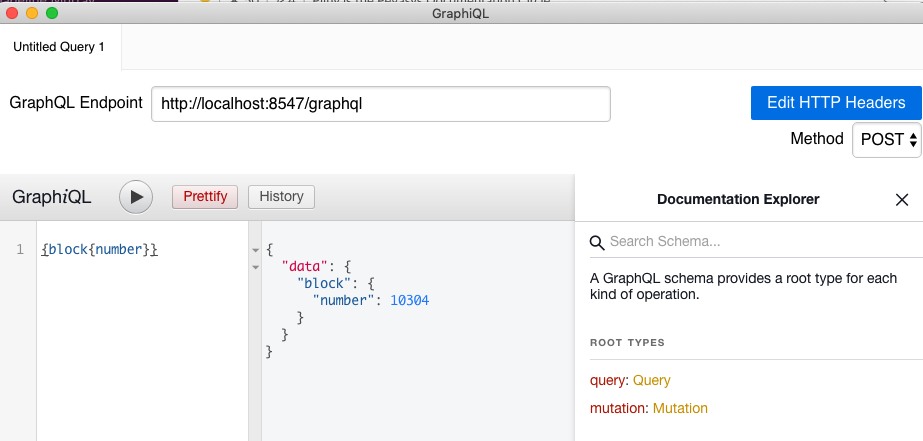
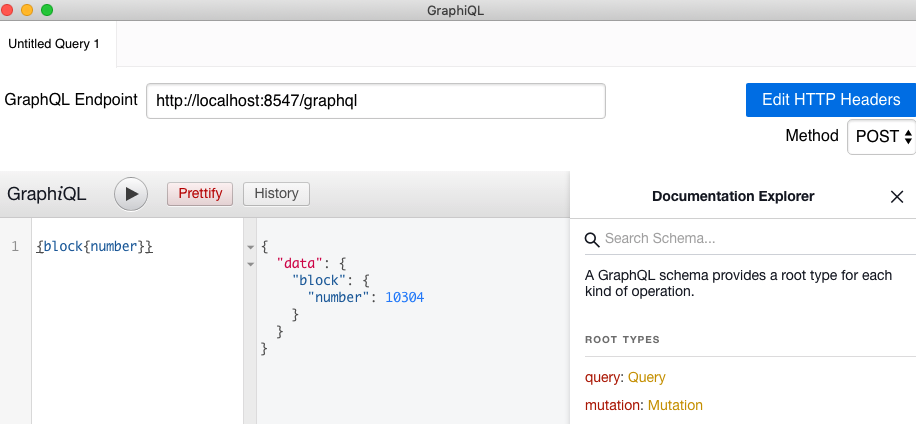
Ready for review

diff --git a/docs/Reference/Pantheon-API-Methods.md b/docs/Reference/Pantheon-API-Methods.md
@@ -444,6 +444,10 @@ None
 	
 ## Eth Methods
 
+!!! note
+    Methods with an equivalent [GraphQL](../Pantheon-API/GraphQL.md) query include a GraphQL request and result in the method example.
+    The parameter and result descriptions apply to the JSON-RPC requests. The GraphQL specification is defined in the [schema](https://github.com/PegaSysEng/pantheon/blob/master/ethereum/graphqlrpc/src/main/resources/schema.graphqls).  
+
 ### eth_syncing
 
 Returns an object with data about the synchronization status, or `false` if not synchronizing.
@@ -1622,9 +1626,6 @@ Returns transaction information for the specified block number and transaction i
 
 Object - [Transaction object](Pantheon-API-Objects.md#transaction-object), or `null` when no transaction is found.
 
-!!!note
-    Your node must be synchronized to at least the block containing the transaction for the request to return it.
-
 !!! example
     This request returns the third transaction in the 82990 block on the Ropsten testnet. You can also view this [block](https://ropsten.etherscan.io/txs?block=82990) and [transaction](https://ropsten.etherscan.io/tx/0xfc766a71c406950d4a4955a340a092626c35083c64c7be907060368a5e6811d6) on Etherscan.
 
@@ -2028,8 +2029,6 @@ Returns an array of [logs](../Using-Pantheon/Events-and-Logs.md) matching a spec
 `array` - [Log objects](Pantheon-API-Objects.md#log-object)
 
 !!! example
-    The following request returns all logs for the contract at address `0x2e1f232a9439c3d459fceca0beef13acc8259dd8`. 
-
     ```bash tab="curl HTTP request"
     curl -X POST --data '{"jsonrpc":"2.0","method":"eth_getLogs","params":[{"fromBlock":"earliest", "toBlock":"latest", "address": "0x2e1f232a9439c3d459fceca0beef13acc8259dd8", "topics":[]}], "id":1}' http://127.0.0.1:8545
     ```

diff --git a/docs/Pantheon-API/GraphQL.md b/docs/Pantheon-API/GraphQL.md
@@ -3,22 +3,25 @@ description: How to access the Pantheon API using GraphQL-RPC
 
 # GraphQL over HTTP
 
-To enable GraphQL-RPC over HTTP, use the [`--graphql-http-enabled`](../Reference/Pantheon-CLI-Syntax.md#graphql-http-enabled) 
-option.
+GraphQL can reduce the overhead needed for common queries. For example, instead of querying each receipt in a
+block, GraphQL can obtain the same result with a single query for the entire block. 
 
 ## GraphQL Requests with Curl 
 
-```bash
-curl -X POST -H "Content-Type: application/json" --data '{ "query": "{ protocolVersion }" }' http://localhost:8547/graphql
-```
+[Pantheon JSON-RPC API methods](../Reference/Pantheon-API-Methods.md) with an equivalent [GraphQL](../Pantheon-API/GraphQL.md) 
+query include a GraphQL request and result in the method example. 
 
+!!! example
+    ```bash
+    curl -X POST -H "Content-Type: application/json" --data '{ "query": "{syncing{startingBlock currentBlock highestBlock}}"}' http://localhost:8547/graphql
+    ```
 
 ## GraphQL Requests with GraphiQL App
 
-The [GraphiQL app](https://github.com/skevy/graphiql-app) provides a tabbed interface for editing and testing GraphQL 
+The third-party tool [GraphiQL](https://github.com/skevy/graphiql-app) provides a tabbed interface for editing and testing GraphQL 
 queries and mutations. GraphiQL also provides access the Pantheon GraphQL schema from within the app. 
 
 ![GraphiQL](../images/GraphiQL.png) 
 
 
-Examples in Pantheon API Methods - eth_ methods only 
+ 

diff --git a/docs/Pantheon-API/Pantheon-API.md b/docs/Pantheon-API/Pantheon-API.md
@@ -5,9 +5,14 @@ Access the [Pantheon API](../Reference/Pantheon-API-Methods.md) using:
 
 * [JSON-RPC over HTTP or WebSockets](Using-JSON-RPC-API.md) 
 * [RPC Pub/Sub over WebSockets](RPC-PubSub.md)
-* GraphQL RPC over HTTP
+* [GraphQL over HTTP](GraphQL.md)
 
 Information applying to JSON-RPC, RPC Pub/Sub, and GraphQL is included below. 
+
+## Enabling API Access 
+
+Use the [`--rpc-http-enabled`](../Reference/Pantheon-CLI-Syntax.md#rpc-http-enabled), [`--ws-http-enabled`](../Reference/Pantheon-CLI-Syntax.md#rpc-ws-enabled),
+and [`--graphql-http-enabled`](../Reference/Pantheon-CLI-Syntax.md#graphql-http-enabled) options to enable API access.
 
 ## RPC Hosts
 
